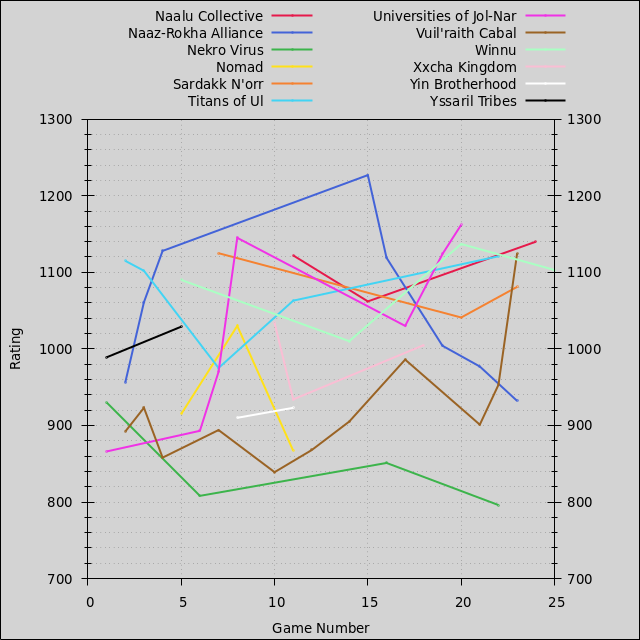
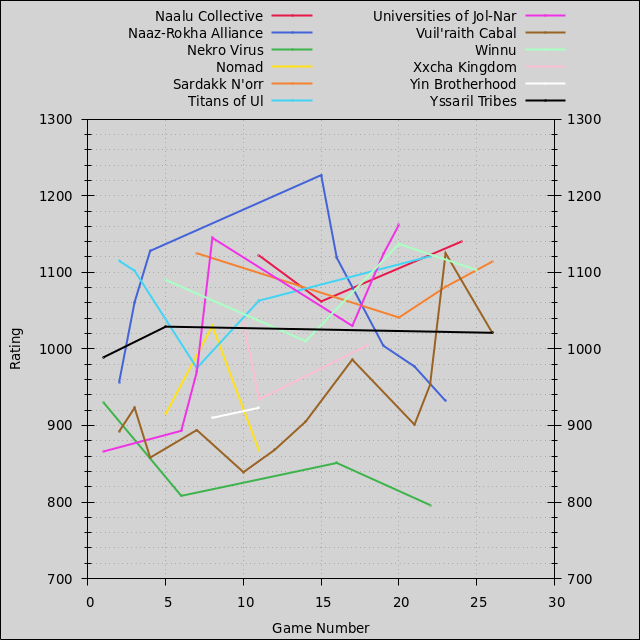
Update games.txt and leaderboard.

diff --git a/leaderboard/README.md b/leaderboard/README.md
@@ -4,7 +4,7 @@
 - [Games](#games)
 - [License](#license)
 
-Last updated 2022-01-18 04:58 UTC.
+Last updated 2022-01-23 05:55 UTC.
 
 # Players
 
@@ -20,15 +20,15 @@ Last updated 2022-01-18 04:58 UTC.
 | **Player** | **Games** | **Curr. Rating** | **Avg Rating** | **Avg Pts.** | **Win Rate** | **1st Place** | **2nd Place** | **3rd Place** |
 | :--- | :---: | :---: | :---: | :---: | :---: | :---: | :---: | :---: |
 | PA | 16 | 1237 | 1225 | 9.25 | 48% | 56% (9) | 25% (4) | 6% (1) |
-| Rob | 5 | 1180 | 1063 | 9.20 | 30% | 40% (2) | 20% (1) | 20% (1) |
-| AlexC | 25 | 1180 | 1084 | 7.96 | 12% | 16% (4) | 36% (9) | 32% (8) |
 | AlexP | 7 | 1153 | 981 | 6.71 | 14% | 14% (1) | 14% (1) | 14% (1) |
-| Ronan | 13 | 1114 | 994 | 7.62 | 19% | 23% (3) | 8% (1) | 15% (2) |
+| Ronan | 14 | 1147 | 1005 | 7.71 | 18% | 21% (3) | 14% (2) | 14% (2) |
+| AlexC | 26 | 1134 | 1086 | 8.00 | 12% | 15% (4) | 35% (9) | 35% (9) |
 | Scott | 2 | 1095 | 1050 | 9.50 | 0% | 0% (0) | 100% (2) | 0% (0) |
+| Rob | 6 | 1071 | 1064 | 8.50 | 25% | 33% (2) | 17% (1) | 17% (1) |
+| Nick | 19 | 1067 | 894 | 6.42 | 7% | 11% (2) | 16% (3) | 16% (3) |
 | Jess | 1 | 1044 | 1044 | 4.00 | 0% | 0% (0) | 0% (0) | 100% (1) |
 | Wendi | 21 | 997 | 1037 | 7.48 | 13% | 19% (4) | 14% (3) | 19% (4) |
 | Jay | 1 | 991 | 991 | 4.00 | 0% | 0% (0) | 0% (0) | 0% (0) |
-| Nick | 18 | 924 | 885 | 6.22 | 4% | 6% (1) | 17% (3) | 17% (3) |
 | Andy | 9 | 894 | 1035 | 8.11 | 13% | 11% (1) | 11% (1) | 33% (3) |
 | Rachel | 3 | 886 | 915 | 5.33 | 0% | 0% (0) | 0% (0) | 33% (1) |
 | Eftychi | 1 | 868 | 868 | 0.00 | 0% | 0% (0) | 0% (0) | 0% (0) |
@@ -74,18 +74,18 @@ Effective win rates are calculated relative to 6-player games.
 | :--- | :---: | :---: | :---: | :---: | :---: | :---: | :---: | :---: |
 | Clan of Saar | 6 | 1213 | 1174 | 9.17 | 33% | 50% (3) | 17% (1) | 33% (2) |
 | Universities of Jol-Nar | 7 | 1162 | 1027 | 7.14 | 17% | 14% (1) | 29% (2) | 14% (1) |
+| Arborec | 4 | 1154 | 1045 | 8.25 | 17% | 25% (1) | 50% (2) | 0% (0) |
 | Naalu Collective | 3 | 1140 | 1108 | 9.00 | 56% | 67% (2) | 0% (0) | 0% (0) |
-| Vuil'raith Cabal | 11 | 1125 | 922 | 7.64 | 9% | 9% (1) | 27% (3) | 9% (1) |
 | Argent Flight | 10 | 1122 | 1109 | 8.30 | 28% | 40% (4) | 20% (2) | 10% (1) |
 | Titans of Ul | 5 | 1121 | 1075 | 9.20 | 30% | 40% (2) | 20% (1) | 20% (1) |
+| Sardakk N'orr | 4 | 1114 | 1090 | 6.75 | 25% | 25% (1) | 25% (1) | 25% (1) |
 | Winnu | 4 | 1103 | 1085 | 7.25 | 33% | 50% (2) | 0% (0) | 50% (2) |
 | Mentak Coalition | 2 | 1092 | 1033 | 8.00 | 0% | 0% (0) | 50% (1) | 50% (1) |
-| Sardakk N'orr | 3 | 1081 | 1082 | 6.00 | 33% | 33% (1) | 0% (0) | 33% (1) |
 | Ghosts of Creuss | 1 | 1071 | 1071 | 9.00 | 0% | 0% (0) | 100% (1) | 0% (0) |
-| Arborec | 3 | 1062 | 1009 | 7.67 | 0% | 0% (0) | 67% (2) | 0% (0) |
 | L1z1x Mindnet | 5 | 1043 | 1064 | 7.80 | 20% | 20% (1) | 40% (2) | 20% (1) |
 | Federation of Sol | 7 | 1035 | 1028 | 8.14 | 7% | 14% (1) | 0% (0) | 86% (6) |
-| Yssaril Tribes | 2 | 1029 | 1009 | 7.50 | 0% | 0% (0) | 50% (1) | 0% (0) |
+| Yssaril Tribes | 3 | 1021 | 1013 | 8.00 | 0% | 0% (0) | 33% (1) | 33% (1) |
+| Vuil'raith Cabal | 12 | 1021 | 930 | 7.42 | 8% | 8% (1) | 25% (3) | 8% (1) |
 | Xxcha Kingdom | 3 | 1005 | 991 | 7.67 | 0% | 0% (0) | 67% (2) | 0% (0) |
 | Barony of Letnev | 5 | 953 | 967 | 7.60 | 13% | 20% (1) | 0% (0) | 20% (1) |
 | Embers of Muaat | 2 | 945 | 899 | 7.50 | 0% | 0% (0) | 0% (0) | 50% (1) |
@@ -139,6 +139,7 @@ Effective win rates are calculated relative to 6-player games.
 
 | **Game** | **Date** | **Mode** | **Points** | **Players** | **Results** |
 | :---: | :---: | :---: | :---: | :---: | :--- |
+| 26 | 2022-01-22 | Free-for-All | 10 | 4 | 11h15m, 1st Nick 10 Arborec, 2nd Ronan 9 Sardakk N'orr, 3rd AlexC 9 Yssaril Tribes, 4th Rob 5 Vuil'raith Cabal |
 | 25 | 2021-12-27 | Free-for-All | 10 | 5 | 8h30m, 1st Rob 10 Argent Flight, 2nd PA 9 Ghosts of Creuss, 3rd AlexC 9 Winnu, 4th Wendi 8 Barony of Letnev, 5th Andy 7 Empyrean |
 | 24 | 2021-12-18 | Free-for-All | 10 | 4 | 8h45m, 1st Ronan 10 Naalu Collective, 2nd AlexC 10 L1z1x Mindnet, 3rd Rob 9 Mahact Gene-Sorcerers, 4th Andy 9 Argent Flight |
 | 23 | 2021-12-05 | Free-for-All | 5 | 6 | 8h45m, 1st AlexC 5 Vuil'raith Cabal, 2nd Scott 5 Mentak Coalition, 3rd Jess 2 Sardakk N'orr, 4th Jay 2 Argent Flight, 5th Rachel 1 Naaz-Rokha Alliance, 6th Eftychi 0 Mahact Gene-Sorcerers |
